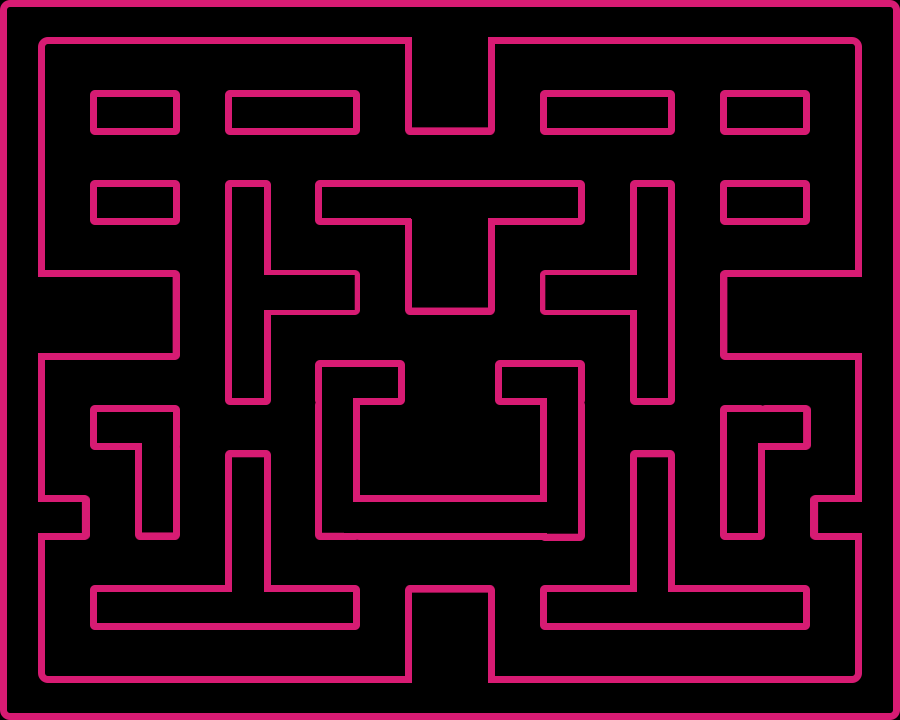
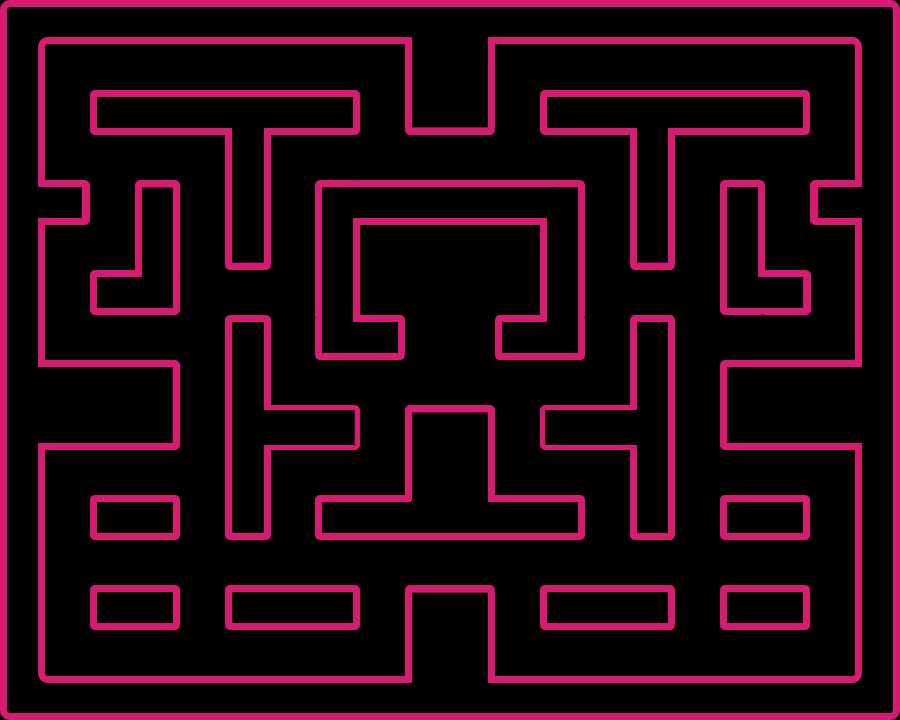
add enemy

diff --git a/kurs/kurs/MainWindow.xaml b/kurs/kurs/MainWindow.xaml
@@ -5,32 +5,32 @@
         xmlns:mc="http://schemas.openxmlformats.org/markup-compatibility/2006"
         xmlns:local="clr-namespace:kurs"
         mc:Ignorable="d"
-        Title="Pacman" Height="750" Width="910" KeyDown="Window_KeyDown">
+        Title="Pacman" Height="759" Width="916" KeyDown="Window_KeyDown">
     <Grid>
         <Grid x:Name="menu" HorizontalAlignment="Left" Height="720" Margin="0,0,0,0" VerticalAlignment="Top" Width="900">
             <Grid.Background>
-                <ImageBrush ImageSource="C:\Users\Admin\Desktop\kurs\kurs\kurs\image\menu_bg.png"/>
+                <ImageBrush ImageSource="D:\Программирование\2 семестр\kurs\kurs\kurs\image\menu_bg.png"/>
             </Grid.Background>
             <Button x:Name="start" HorizontalAlignment="Left" Height="86" Margin="256,359,0,0" VerticalAlignment="Top" Width="387" Click="Start_Click" BorderBrush="Black" MouseEnter="Start_MouseEnter" Background="Black" Style="{DynamicResource myStyleIsAdongDigiDigi}">
-                <Image Source="C:\Users\Admin\Desktop\kurs\kurs\kurs\image\bt_start.png" Width="387" Style="{DynamicResource GangnamStyle}"/>
+                <Image Source="D:\Программирование\2 семестр\kurs\kurs\kurs\image\bt_start.png" Width="387" Style="{DynamicResource GangnamStyle}"/>
             </Button>
             <Button x:Name="tabl" Height="84" Margin="256,482,0,0" VerticalAlignment="Top" BorderBrush="Black" Style="{DynamicResource myStyleIsAdongDigiDigi}" HorizontalAlignment="Left" Width="387">
                 <Button.Background>
                     <ImageBrush/>
                 </Button.Background>
-                <Image Source="C:\Users\Admin\Desktop\kurs\kurs\kurs\image\bt_rd.png" Width="387"/>
+                <Image Source="D:\Программирование\2 семестр\kurs\kurs\kurs\image\bt_rd.png" Width="387"/>
 
             </Button>
             <Button x:Name="exit" HorizontalAlignment="Left" Height="81" Margin="256,598,0,0" VerticalAlignment="Top" Width="387" BorderBrush="Black" Style="{DynamicResource myStyleIsAdongDigiDigi}">
                 <Button.Background>
                     <ImageBrush/>
                 </Button.Background>
-                <Image Source="C:\Users\Admin\Desktop\kurs\kurs\kurs\image\bt_ex.png" Width="346"/>
+                <Image Source="D:\Программирование\2 семестр\kurs\kurs\kurs\image\bt_ex.png" Width="346"/>
             </Button>
         </Grid>
         <Canvas x:Name="Game" HorizontalAlignment="Left" Height="720" Margin="0,0,0,0" VerticalAlignment="Top" Width="900" Visibility="Hidden">
             <Canvas.Background>
-                <ImageBrush ImageSource="C:\Users\Admin\Desktop\kurs\kurs\kurs\image\maze.png"/>
+                <ImageBrush ImageSource="D:\Программирование\2 семестр\kurs\kurs\kurs\image\maze.png"/>
             </Canvas.Background>
         </Canvas>
     </Grid>

diff --git a/kurs/kurs/MainWindow.xaml.cs b/kurs/kurs/MainWindow.xaml.cs
@@ -20,7 +20,8 @@ namespace kurs
     /// </summary>
     public partial class MainWindow : Window
     {
-        
+
+        int score;
         public class CChar
         {
             int x, y;
@@ -28,6 +29,11 @@ namespace kurs
 
             int h, w;
             Ellipse pm;
+            ImageBrush ib = new ImageBrush();
+            int currentFrame;
+            int currentRow;
+
+
 
             public CChar(int x, int y)
             {
@@ -36,17 +42,31 @@ namespace kurs
 
                 w = h = 45;
 
-                px = x * w; 
+                px = x * w;
                 py = y * h;
 
                 pm = new Ellipse();
 
-                pm.Stroke = Brushes.YellowGreen;
-                pm.Fill = Brushes.Yellow;
-                pm.StrokeThickness = 2;
+                //pm.Stroke = Brushes.YellowGreen;
+                //pm.Fill = Brushes.Yellow;
+                //pm.StrokeThickness = 2;
 
                 pm.Width = 45;
                 pm.Height = 45;
+
+                ib.AlignmentX = AlignmentX.Left;
+                ib.AlignmentY = AlignmentY.Top;
+                ib.Stretch = Stretch.None;
+
+                ib.Viewbox = new Rect(10, 10, 0, 0);
+                ib.ViewboxUnits = BrushMappingMode.Absolute;
+
+                currentFrame = 0;
+
+
+                ib.ImageSource = new BitmapImage(new Uri(@"pack://application:,,,/image/pm (1).png", UriKind.Absolute));
+
+                pm.Fill = ib;
 
                 pm.RenderTransform = new TranslateTransform(px, py);
                 //pm.Margin = new Thickness(px, py, 0, 0);
@@ -58,19 +78,59 @@ namespace kurs
 
                 if (map[x, y] == 1) return true;
 
+
                 this.x = x;
                 this.y = y;
 
+                var frameCount = 8;
+                var frameW = 65;
+                var frameH = 65;
+
+
+
                 if (px > x * w)
-                    px-=1;
+                {
+                    px -= 1;
+                    currentFrame = (currentFrame + 1 + frameCount) % frameCount;
+                    currentRow = 1;
+
+                    var frameLeft = currentFrame * frameW;
+                    var frameTop = currentRow * frameH;
+                    (pm.Fill as ImageBrush).Viewbox = new Rect(frameLeft, frameTop + 10, frameLeft + frameW, frameTop + frameH);
+                }
                 if (px < x * w)
-                    px+=1;
+                {
+                    px += 1;
+                    currentFrame = (currentFrame + 1 + frameCount) % frameCount;
+                    currentRow = 0;
+
+                    var frameLeft = currentFrame * frameW;
+                    var frameTop = currentRow * frameH;
+                    (pm.Fill as ImageBrush).Viewbox = new Rect(frameLeft + 10, frameTop + 10, frameLeft + frameW, frameTop + frameH);
+                }
+
                 //px = x * w;
                 if (py > y * h)
-                    py-=1;
-                if (py < y * h)
-                    py+=1;
+                {
+                    py -= 1;
+                    currentFrame = (currentFrame + 1 + frameCount) % frameCount;
+                    currentRow = 2;
 
+                    var frameLeft = currentFrame * frameW;
+                    var frameTop = currentRow * frameH;
+                    (pm.Fill as ImageBrush).Viewbox = new Rect(frameLeft + 10, frameTop + 10, frameLeft + frameW, frameTop + frameH);
+                }
+
+                if (py < y * h)
+                {
+                    py += 1;
+                    currentFrame = (currentFrame + 1 + frameCount) % frameCount;
+                    currentRow = 3;
+
+                    var frameLeft = currentFrame * frameW;
+                    var frameTop = currentRow * frameH;
+                    (pm.Fill as ImageBrush).Viewbox = new Rect(frameLeft + 10, frameTop + 20, frameLeft + frameW, frameTop + frameH);
+                }
 
                 //py = y * h;
 
@@ -84,6 +144,80 @@ namespace kurs
             public void addToScene(ref Canvas scene)
             {
                 scene.Children.Add(pm);
+            }
+        }
+
+        public class Enemy
+        {
+            int x, y;
+            int px, py;
+
+            int h, w;
+            Rectangle ghost1, ghost2, ghost3;
+            ImageBrush ib = new ImageBrush();
+            int currentFrame;
+            int currentRow;
+
+            public Enemy(int x, int y)
+            {
+                this.x = x;
+                this.y = y;
+
+                w = h = 45;
+
+                px = x * w;
+                py = y * h;
+
+                ghost1 = new Rectangle();
+                ghost2 = new Rectangle();
+                ghost3 = new Rectangle();
+
+                ghost1.Stroke = Brushes.Purple;
+                ghost1.Fill = Brushes.Red;
+                ghost2.Stroke = Brushes.Purple;
+                ghost2.Fill = Brushes.Blue;
+                ghost3.Stroke = Brushes.Purple;
+                ghost3.Fill = Brushes.Green;
+                //pm.StrokeThickness = 2;
+                ghost1.HorizontalAlignment = HorizontalAlignment.Left;
+                ghost1.VerticalAlignment = VerticalAlignment.Center;
+                ghost2.HorizontalAlignment = HorizontalAlignment.Left;
+                ghost2.VerticalAlignment = VerticalAlignment.Center;
+                ghost3.HorizontalAlignment = HorizontalAlignment.Left;
+                ghost3.VerticalAlignment = VerticalAlignment.Center;
+
+                ghost1.Width = 45;
+                ghost1.Height = 45;
+                ghost2.Width = 45;
+                ghost2.Height = 45;
+                ghost3.Width = 45;
+                ghost3.Height = 45;
+
+                //ib.AlignmentX = AlignmentX.Left;
+                //ib.AlignmentY = AlignmentY.Top;
+                //ib.Stretch = Stretch.None;
+
+                //ib.Viewbox = new Rect(10, 10, 0, 0);
+                //ib.ViewboxUnits = BrushMappingMode.Absolute;
+
+                //currentFrame = 0;
+
+
+                //ib.ImageSource = new BitmapImage(new Uri(@"pack://application:,,,/image/pm (1).png", UriKind.Absolute));
+
+                //pm.Fill = ib;
+
+                ghost1.RenderTransform = new TranslateTransform(px, py);
+                ghost2.RenderTransform = new TranslateTransform(px+45, py);
+                ghost3.RenderTransform = new TranslateTransform(px+90, py);
+
+
+            }
+            public void addToScene(ref Canvas scene)
+            {
+                scene.Children.Add(ghost1);
+                scene.Children.Add(ghost2);
+                scene.Children.Add(ghost3);
             }
         }
 
@@ -108,7 +242,13 @@ namespace kurs
                 {
                     x = x + dx;
                     y = y + dy;
+                    if (map[x + dx, y + dy] == 2)
+                    {
+                        map[x + dx, y + dy] = 0;
+                    }
                 }
+
+
             }
 
             public void up()
@@ -138,27 +278,52 @@ namespace kurs
         }
 
         CChar pakman;
+        Enemy gh1, gh2, gh3;
         CDir dir;
         System.Windows.Threading.DispatcherTimer Timer;
 
-        //20x16
-        public int[,] map = { 
-            { 1, 1, 1, 1, 1, 1, 1, 1, 1, 1, 1, 1, 1, 1, 1, 1, 1, 1, 1, 1 },
-            { 1, 2, 2, 2, 2, 2, 2, 2, 2, 1, 1, 2, 2, 2, 2, 2, 2, 2, 2, 1 },
-            { 1, 2, 1, 1, 2, 1, 1, 1, 2, 1, 1, 2, 1, 1, 1, 2, 1, 1, 2, 1 },
-            { 1, 2, 2, 2, 2, 2, 2, 2, 2, 2, 2, 2, 2, 2, 2, 2, 2, 2, 2, 1 },
-            { 1, 2, 1, 1, 2, 1, 2, 1, 1, 1, 1, 1, 1, 2, 1, 2, 1, 1, 2, 1 },
-            { 1, 2, 2, 2, 2, 1, 2, 2, 2, 1, 1, 2, 2, 2, 1, 2, 2, 2, 2, 1 },
-            { 1, 1, 1, 1, 2, 1, 1, 1, 2, 1, 1, 2, 1, 1, 1, 2, 1, 1, 1, 1 },
-            { 1, 1, 1, 1, 2, 1, 2, 2, 2, 2, 2, 2, 2, 2, 1, 2, 1, 1, 1, 1 },
-            { 1, 2, 2, 2, 2, 1, 2, 1, 1, 0, 0, 1, 1, 2, 1, 2, 2, 2, 2, 1 },
-            { 1, 2, 1, 1, 2, 2, 2, 1, 0, 0, 0, 0, 1, 2, 2, 2, 1, 1, 2, 1 },
-            { 1, 2, 2, 1, 2, 1, 2, 1, 0, 0, 0, 0, 1, 2, 1, 2, 1, 2, 2, 1 },
-            { 1, 1, 2, 1, 2, 1, 2, 1, 1, 1, 1, 1, 1, 2, 1, 2, 1, 2, 1, 1 },
-            { 1, 2, 2, 2, 2, 1, 2, 2, 2, 2, 2, 2, 2, 2, 1, 2, 2, 2, 2, 1 },
-            { 1, 2, 1, 1, 1, 1, 1, 1, 2, 1, 1, 2, 1, 1, 1, 1, 1, 1, 2, 1 },
-            { 1, 2, 2, 2, 2, 2, 2, 2, 2, 1, 1, 2, 2, 2, 2, 2, 2, 2, 2, 1 },
-            { 1, 1, 1, 1, 1, 1, 1, 1, 1, 1, 1, 1, 1, 1, 1, 1, 1, 1, 1, 1 } }; 
+        //16x20
+
+        //{ 1, 1, 1, 1, 1, 1, 1, 1, 1, 1, 1, 1, 1, 1, 1, 1, 1, 1, 1, 1 },
+        //{ 1, 2, 2, 2, 2, 2, 2, 2, 2, 1, 1, 2, 2, 2, 2, 2, 2, 2, 2, 1 },
+        //{ 1, 2, 1, 1, 2, 1, 1, 1, 2, 1, 1, 2, 1, 1, 1, 2, 1, 1, 2, 1 },
+        //{ 1, 2, 2, 2, 2, 2, 2, 2, 2, 2, 2, 2, 2, 2, 2, 2, 2, 2, 2, 1 },
+        //{ 1, 2, 1, 1, 2, 1, 2, 1, 1, 1, 1, 1, 1, 2, 1, 2, 1, 1, 2, 1 },
+        //{ 1, 2, 2, 2, 2, 1, 2, 2, 2, 1, 1, 2, 2, 2, 1, 2, 2, 2, 2, 1 },
+        //{ 1, 1, 1, 1, 2, 1, 1, 1, 2, 1, 1, 2, 1, 1, 1, 2, 1, 1, 1, 1 },
+        //{ 1, 1, 1, 1, 2, 1, 2, 2, 2, 2, 2, 2, 2, 2, 1, 2, 1, 1, 1, 1 },
+        //{ 1, 2, 2, 2, 2, 1, 2, 1, 1, 0, 0, 1, 1, 2, 1, 2, 2, 2, 2, 1 },
+        //{ 1, 2, 1, 1, 2, 2, 2, 1, 0, 0, 0, 0, 1, 2, 2, 2, 1, 1, 2, 1 },
+        //{ 1, 2, 2, 1, 2, 1, 2, 1, 0, 0, 0, 0, 1, 2, 1, 2, 1, 2, 2, 1 },
+        //{ 1, 1, 2, 1, 2, 1, 2, 1, 1, 1, 1, 1, 1, 2, 1, 2, 1, 2, 1, 1 },
+        //{ 1, 2, 2, 2, 2, 1, 2, 2, 2, 2, 2, 2, 2, 2, 1, 2, 2, 2, 2, 1 },
+        //{ 1, 2, 1, 1, 1, 1, 1, 1, 2, 1, 1, 2, 1, 1, 1, 1, 1, 1, 2, 1 },
+        //{ 1, 2, 2, 2, 2, 2, 2, 2, 2, 1, 1, 2, 2, 2, 2, 2, 2, 2, 2, 1 },
+        //{ 1, 1, 1, 1, 1, 1, 1, 1, 1, 1, 1, 1, 1, 1, 1, 1, 1, 1, 1, 1 } }; 
+
+       
+        public int[,] map = {
+                {1,1,1,1,1,1,1,1,1,1,1,1,1,1,1,1},
+                {1,0,2,2,1,2,2,2,1,1,2,2,2,2,2,1},
+                {1,2,1,2,2,2,1,2,1,1,2,1,2,1,2,1},
+                {1,2,1,2,1,1,1,2,1,1,2,1,2,1,2,1},
+                {1,2,1,2,2,2,2,2,2,2,2,2,2,2,2,1},
+                {1,2,1,1,1,1,2,1,1,1,1,1,2,1,2,1},
+                {1,2,1,2,2,2,2,2,2,1,2,2,2,1,2,1},
+                {1,2,1,2,1,1,1,1,2,1,2,1,2,1,2,1},
+                {1,2,2,2,1,0,0,1,2,2,2,1,2,2,2,1},
+                {1,1,1,2,1,0,0,0,2,1,1,1,2,1,1,1},
+                {1,1,1,2,1,0,0,0,2,1,1,1,2,1,1,1},
+                {1,2,2,2,1,0,0,1,2,2,2,1,2,2,2,1},
+                {1,2,1,2,1,1,1,1,2,1,2,1,2,1,2,1},
+                {1,2,1,2,2,2,2,2,2,1,2,2,2,1,2,1},
+                {1,2,1,1,1,1,2,1,1,1,1,1,2,1,2,1},
+                {1,2,1,2,2,2,2,2,2,2,2,2,2,2,2,1},
+                {1,2,1,2,1,1,1,2,1,1,2,1,2,1,2,1},
+                {1,2,1,2,2,2,1,2,1,1,2,1,2,1,2,1},
+                {1,2,2,2,1,2,2,2,1,1,2,2,2,2,2,1},
+                {1,1,1,1,1,1,1,1,1,1,1,1,1,1,1,1},
+                }; 
 
         public MainWindow()
         {
@@ -166,43 +331,60 @@ namespace kurs
 
             pakman = new CChar(1, 1);
 
+            gh1 = new Enemy(8, 5);
+            //gh2 = new Enemy(9, 5);
+            //gh3 = new Enemy(10, 5);
+
             dir = new CDir(1, 1);
 
             Timer = new System.Windows.Threading.DispatcherTimer();
             Timer.Tick += new EventHandler(dispatcherTimer_Tick);
             Timer.Interval = new TimeSpan(0, 0, 0, 0, 1);
-          
+             
+
             for (int i = 0; i < map.GetLength(0); i++)
                 for (int j = 0; j < map.GetLength(1); j++)
                 {
-                    Rectangle r = new Rectangle();
+                   Ellipse r = new Ellipse();
 
-                    r.Stroke = Brushes.YellowGreen;
-
-                    if (map[i,j] == 2 || map[i, j] == 0)
+                    if (map[i, j] == 2)
+                    {
                         r.Fill = Brushes.Azure;
-                    if (map[i, j] == 1)
-                        r.Fill = Brushes.Red;
+                        r.Width = 13;
+                        r.Height = 13;
+                    }
 
+                    if (map[i, j] == 3)
+                    {
+                        r.Fill = Brushes.Azure;
+                        r.Width = 20;
+                        r.Height = 20;
+                    }
 
                     r.StrokeThickness = 2;
 
-                    r.Width = 45;
-                    r.Height = 45;
+                      
 
-                    r.RenderTransform = new TranslateTransform(i * 45, j * 45);
+                   r.RenderTransform = new TranslateTransform(i * 45 + 15, j * 45 + 15);
                     Game.Children.Add(r);
                 }
 
             pakman.addToScene(ref Game);
+            gh1.addToScene(ref Game);
+            //gh2.addToScene(ref Game);
+            //gh3.addToScene(ref Game);
+
 
         }
 
         private void dispatcherTimer_Tick(object sender, EventArgs e)
         {
-            
+
             if (pakman.move(dir.x, dir.y, map) == true)
+            {
                 dir.update(map);
+                //Game.Children.Remove(r);
+            }
         }
 
         private void Start_Click(object sender, RoutedEventArgs e)
